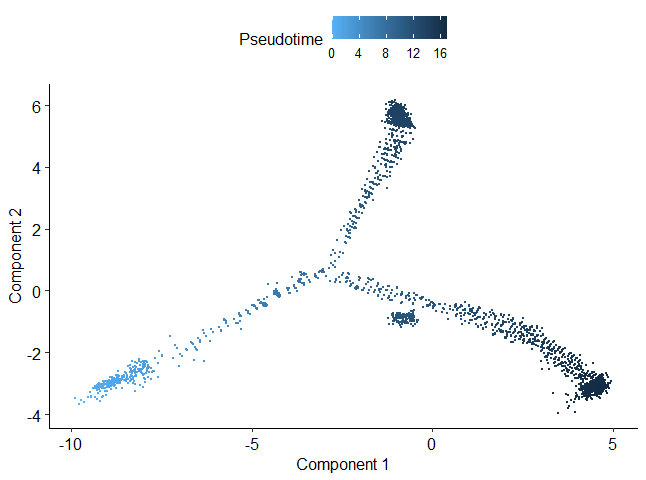
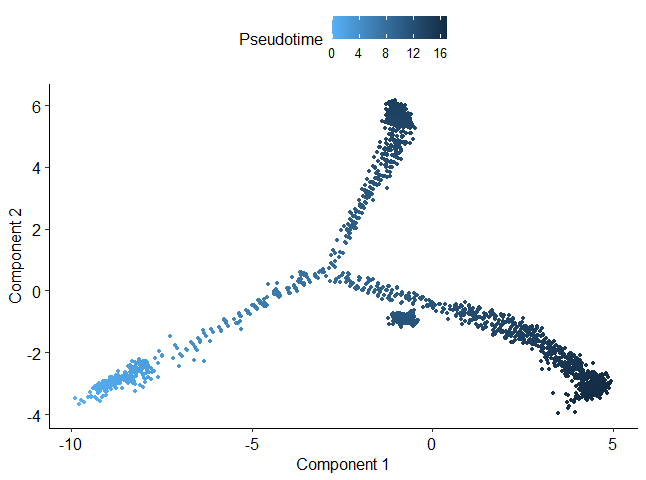
Change2

diff --git a/vignettes/1d.md b/vignettes/1d.md
@@ -12,6 +12,11 @@ Load the following required packages:
 library(monocle)
 library(ggplot2)
 library(ggpubr)
+library(dplyr)
+```
+
+``` r
+suppressMessages(library(dplyr))
 ```
 
 From [**step
@@ -95,7 +100,7 @@ We can plot the trajectory, coloring the cells according to pseudotime:
 ``` r
  p <- ggplot(pan.t2d, ggplot2::aes(y = dim2 , x = dim1,
                                  color =  Pseudotime))  +
-    geom_point(size=0.5) + xlab("Component 1") + ylab("Component 2") +
+    geom_point(size=1) + xlab("Component 1") + ylab("Component 2") +
     ggpubr::theme_pubr()  +
     scale_color_continuous(high = "#132B43", low = "#56B1F7") 
 print(p)
@@ -151,3 +156,120 @@ print(p)
 ```
 
 ![](https://github.com/ElkonLab/scGWAS/blob/master/data/pic/scatterplot.PNG)
+
+#### Branch Analysis
+
+First, we need to assign branch identity to each cell. For this, we
+follow monocle and use the “State” variable.
+
+``` r
+ p <- ggplot(pan.t2d, ggplot2::aes(y = dim2 , x = dim1,
+                                 color =  State))  +
+    geom_point(size=1) + xlab("Component 1") + ylab("Component 2") +
+    ggpubr::theme_pubr()
+print(p)
+```
+
+![](https://github.com/ElkonLab/scGWAS/blob/master/data/pic/states.png)
+
+Here, we know that state 1 are the unbranched progenitors. The
+beta-branch is state 5, and 2,3,4 are the aplha branch. We divide the
+unbranched progenitors into branches by ordering them according to
+pseudotime, and assigning odd and even ranked cells to the first and
+second branches, respectively. We assigne the first progenitor to both
+branches. This is achieved by the following:
+
+``` r
+pan.t2d <- branch_assign(pan.t2d, progenitors = 1, branch1 = c(2,3,4), 
+                         branch2 = 5, b.names = c("Alpha", "Beta"))
+
+head(pan.t2d)
+```
+
+    ##              cells          cs nGene  nUMI orig.ident percent.mito res.0.8
+    ## 1 ACACTGAAGAATGTTG  0.55804175  3375 10687    Fev_E14   0.02358226      10
+    ## 2 ACACTGAAGAATGTTG  0.55804175  3375 10687    Fev_E14   0.02358226      10
+    ## 3 CCATTCGTCGTTGCCT -1.12164422  4215 15785    Fev_E14   0.03376623       8
+    ## 4 CGAATGTCAGCAGTTT  0.36772213  3807 13108    Fev_E14   0.03135729      10
+    ## 5 CATCAGAAGAGGACGG  0.36563265  3257  9750    Fev_E14   0.02810256      10
+    ## 6 CGAACATAGCTTATCG  0.09042509  3726 12361    Fev_E14   0.01860691      10
+    ##   res.1.4 Size_Factor Pseudotime State      dim1      dim2 rank  cell.type
+    ## 1      12    1.419491 0.00000000     1 -9.781157 -3.676372    0 Progenitor
+    ## 2      12    1.419491 0.00000000     1 -9.781157 -3.676372    1 Progenitor
+    ## 3       7    2.096824 0.02374406     1 -9.879779 -3.464093    2 Progenitor
+    ## 4      12    1.741088 0.12551330     1 -9.723341 -3.528040    3 Progenitor
+    ## 5      12    1.295156 0.16231976     1 -9.631442 -3.610558    4 Progenitor
+    ## 6      12    1.641992 0.33112614     1 -9.527802 -3.454580    5 Progenitor
+    ##   Branch
+    ## 1  Alpha
+    ## 2   Beta
+    ## 3  Alpha
+    ## 4   Beta
+    ## 5  Alpha
+    ## 6   Beta
+
+To examine if the D2T risk association is branch-dependent, we compare
+the goodness following models:
+
+``` r
+# Null model, assumes no branch dependency:   
+mod0 <- lm(data = pan.t2d, formula = cs ~ Pseudotime)
+# model that assumes branch dependency: 
+mod1 <- lm(data = pan.t2d, formula = cs ~ Pseudotime:Branch + Pseudotime)
+```
+
+We use Likelihood ratio test to compare the models:
+
+``` r
+    lkrt <- lmtest::lrtest(mod1, mod0)
+    pv <- paste0("p-value = ", signif(lkrt$`Pr(>Chisq)`[2],2))
+    cat(pv)
+```
+
+    p-value = 5e-21
+
+To examine if there is a positive correlation between T2D
+risk-association scores and pseudotime within each branch, we use the
+following model.
+
+``` r
+mod <- lm(data = pan.t2d, formula = cs ~ Pseudotime:Branch)
+res <- summary(mod)
+# For one-sided test p-value:
+pvs <- pt(coef(res)[, 3], mod$df, lower = FALSE)
+
+
+pv <- paste0("Alpha: p-value = ", signif(pvs[2],2),
+             "\nBeta: p-value = ", signif(pvs[3],2))
+cat(pv)
+```
+
+    ## Alpha: p-value = 1.2e-19
+    ## Beta: p-value = 7.1e-40
+
+-   We can visualize the result with a scatter plot:
+
+``` r
+# For reggression lines:
+pre <- data.frame(Pseudotime = pan.t2d$Pseudotime)
+  pre$Branch <- levels(pan.t2d$Branch)[1]
+  
+  pre2 <- data.frame(Pseudotime = pan.t2d$Pseudotime)
+  pre2$Branch = levels(pan.t2d$Branch)[2]
+  
+  pan.t2d$line1 <- predict(mod1, pre)
+  pan.t2d$line2 <- predict(mod1, pre2)
+p <- ggplot2::ggplot(pan.t2d,ggplot2::aes(x = Pseudotime, y = cs, 
+                                          color = cell.type)) + 
+  ggplot2::geom_point() + ggpubr::theme_pubr() + 
+  ggplot2::ylab("T2D Risk") + ggplot2::xlab("Pseudotime") + 
+  scale_color_manual(values = c( "grey", "#72ECFA", "#FA8072")) +
+  geom_line(aes(Pseudotime ,line1), color = "#08cbe2",
+            size =0.75, show.legend = F) +
+  geom_line(aes(Pseudotime,line2), color = "#FA8072", 
+            size =0.75, show.legend = F) +
+  ggplot2::coord_fixed(ratio=4)
+print(p)
+```
+
+![](https://github.com/ElkonLab/scGWAS/blob/master/data/pic/scatterplot_branch.PNG)
